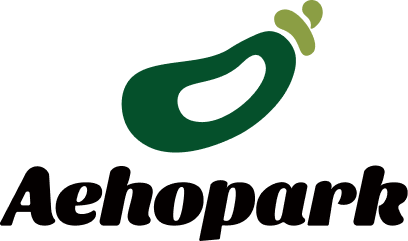
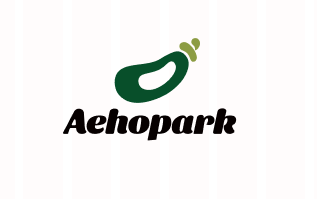
상하단 로고 수정

diff --git a/Aehopark/src/components/Navbar.jsx b/Aehopark/src/components/Navbar.jsx
@@ -1,4 +1,5 @@
 import styled from 'styled-components';
+import Aehopark from '../assets/AehoparkLogo.png';
 
 function Nav({ onMoveToFocus }) {
   const scrollToTop = () => {
@@ -9,7 +10,9 @@ function Nav({ onMoveToFocus }) {
   };
   return (
     <Navbar>
-      <Logo onClick={scrollToTop}>Aehopark</Logo>
+     <Logo onClick={scrollToTop}>
+       <StyledImage src={Aehopark} alt="Aehopark" className="logo" />
+     </Logo>
       <NavItems>
         <NavItem onClick={onMoveToFocus}>어플정보</NavItem>
         <NavItem onClick={onMoveToFocus}>예약하기</NavItem>
@@ -64,4 +67,13 @@ const NavItem = styled.a`
   &:hover {
     color: ${({ theme }) => theme.colors.pc1};
   }
+`;
+
+const StyledImage = styled.img`
+  width: 200px;
+  height: 80px;
+  padding-left: 1px;
+  margin-top : -20px;
+  padding-bottom: 10px;
+  padding-bottom: 100px;
 `;

diff --git a/Aehopark/src/pages/EighthSection.jsx b/Aehopark/src/pages/EighthSection.jsx
@@ -57,10 +57,12 @@ const SmallText = styled.p`
 `;
 
 const StyledImage = styled.img`
-  width: 280px;
-  height: 200px;
-  margin-left: 200px;
+  width: 450px;
+  height: auto;
+  margin-left: 130px;
   margin-bottom: 300px;
+
+  object-fit: contain; 
 
   @media (max-width: 768px) {
     margin-left: -20px;

diff --git a/Aehopark/src/pages/SeventhSection.jsx b/Aehopark/src/pages/SeventhSection.jsx
@@ -128,7 +128,7 @@ const SectionContainer = styled.div`
   align-items: center;
   padding: 50px 0;
   margin-bottom: 30%;
-  margin-left: 250px; 
+  margin-left: -10px; 
   margin-top: 100px;
 
   @media (max-width: 768px) {
